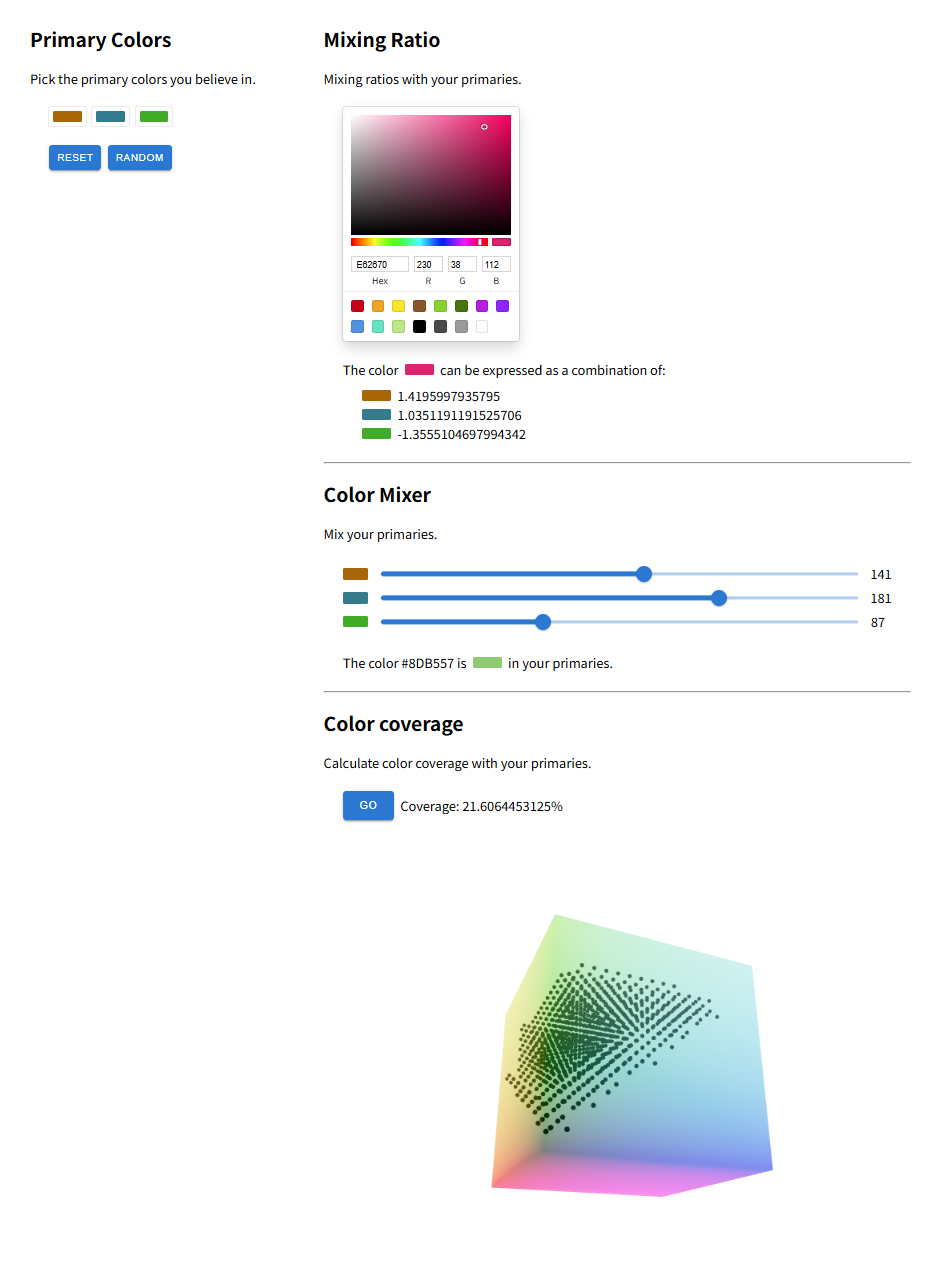
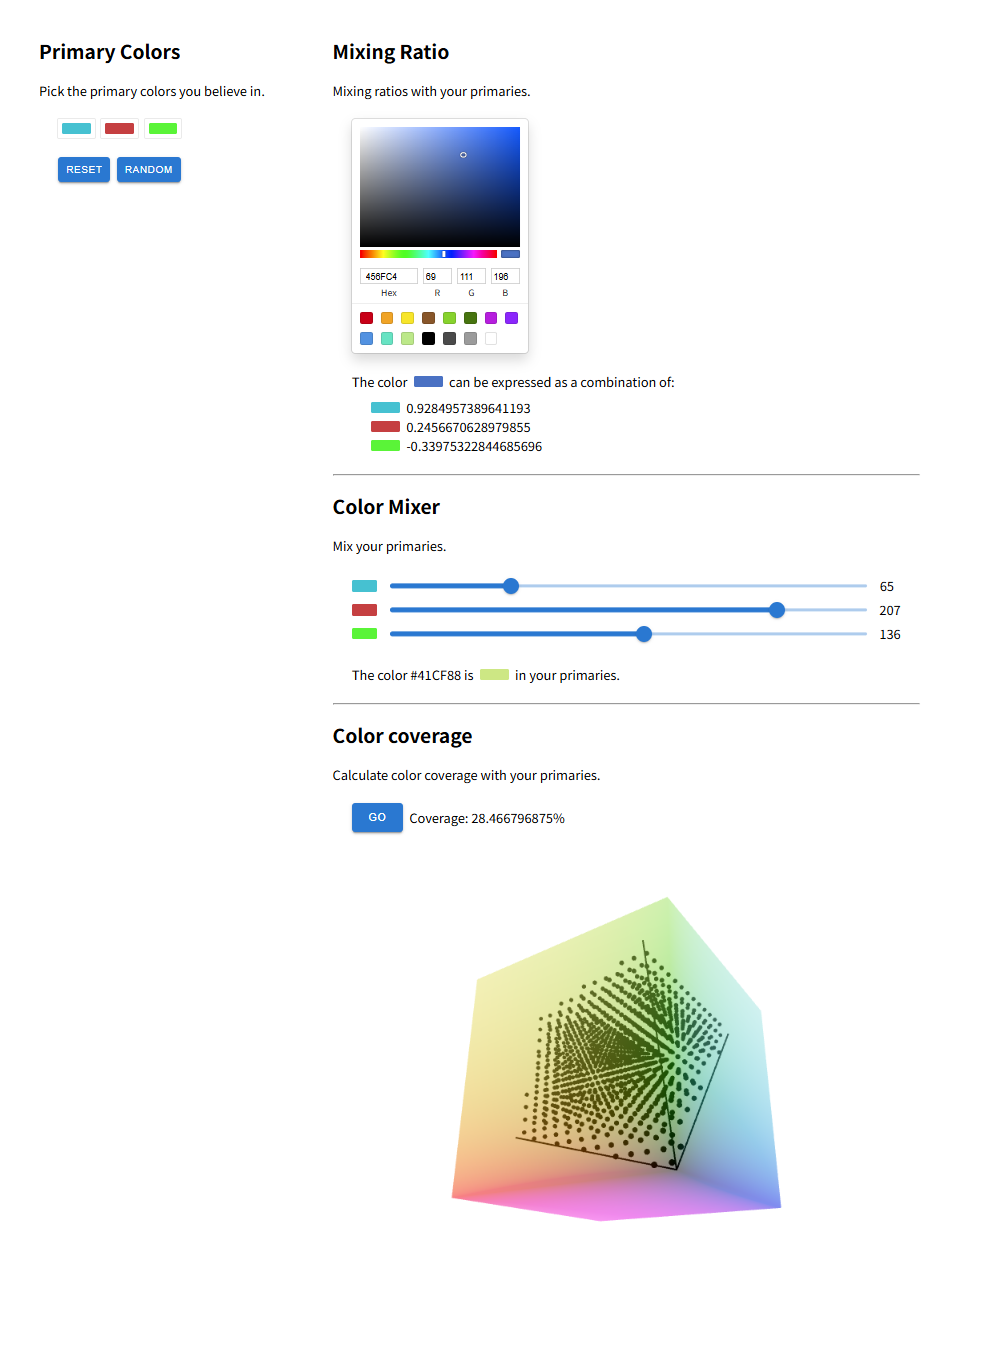
added basis lines

Changed region(s): [[0.3376, 0.0306, 0.9513, 0.6434], [0.4296, 0.6434, 0.8286, 0.9497], [0.0307, 0.0306, 0.2762, 0.1532]]

diff --git a/src/components/ColorCoverage.tsx b/src/components/ColorCoverage.tsx
@@ -1,14 +1,68 @@
 import { Box, Button } from "@mui/material";
-import { OrbitControls } from "@react-three/drei";
+import { Line, OrbitControls } from "@react-three/drei";
 import { Canvas } from "@react-three/fiber";
 import { useCallback, useState } from "react";
 import { type RGBColor } from "react-color";
 import * as THREE from "three";
-import { estimateCoverageGridAsync } from "../libs";
-import { BLACK, type PrimaryColors } from "../types";
+import { colorToVec3, estimateCoverageGridAsync } from "../libs";
+import { BLACK, type PrimaryColors, type Vec3 } from "../types";
 import { FlexRow } from "./FlexRow";
 
-function GradientCube() {
+// -1~1 に変換してThree.js座標に
+const normalize = (v: Vec3): [number, number, number] => [
+  (v.x / 255) * 2 - 1,
+  (v.y / 255) * 2 - 1,
+  (v.z / 255) * 2 - 1,
+];
+
+// ベクトルと色立方体の交点を計算
+const getCubeIntersection = (v: Vec3): Vec3 => {
+  const tX = v.x > 0 ? 255 / v.x : Infinity;
+  const tY = v.y > 0 ? 255 / v.y : Infinity;
+  const tZ = v.z > 0 ? 255 / v.z : Infinity;
+
+  const tMax = Math.min(tX, tY, tZ);
+
+  return {
+    x: v.x * tMax,
+    y: v.y * tMax,
+    z: v.z * tMax,
+  };
+};
+
+type PointProps = {
+  x: number; // 0~255
+  y: number;
+  z: number;
+  color?: RGBColor;
+};
+
+const RGBPoint = ({ x, y, z, color = BLACK }: PointProps) => {
+  const pos = normalize({ x, y, z });
+
+  return (
+    <mesh position={[pos[0], pos[1], pos[2]]}>
+      <sphereGeometry args={[0.02, 16, 16]} />
+      <meshBasicMaterial color={[color.r, color.g, color.b]} />
+    </mesh>
+  );
+};
+
+const ColorAxis = ({ color }: { color: RGBColor }) => {
+  const end = getCubeIntersection(colorToVec3(color));
+
+  return (
+    <>
+      <Line
+        points={[[-1, -1, -1], normalize(end)]}
+        lineWidth={2}
+        color={"black"}
+      />
+    </>
+  );
+};
+
+const GradientCube = () => {
   const geometry = new THREE.BoxGeometry(2, 2, 2);
   const colors: number[] = [];
 
@@ -32,33 +86,16 @@ function GradientCube() {
       <meshBasicMaterial vertexColors={true} transparent={true} opacity={0.5} />
     </mesh>
   );
-}
-
-type PointProps = {
-  x: number; // 0~255
-  y: number;
-  z: number;
-  color?: RGBColor;
 };
-
-function RGBPoint({ x, y, z, color = BLACK }: PointProps) {
-  // -1〜1 に正規化
-  const nx = (x / 255) * 2 - 1;
-  const ny = (y / 255) * 2 - 1;
-  const nz = (z / 255) * 2 - 1;
-
-  return (
-    <mesh position={[nx, ny, nz]}>
-      <sphereGeometry args={[0.02, 16, 16]} />
-      <meshBasicMaterial color={[color.r, color.g, color.b]} />
-    </mesh>
-  );
-}
 
 type CoverageCubeProps = {
+  colorAxises: PrimaryColors;
   coveredColors: RGBColor[];
 };
-const CoverageCube = ({ coveredColors }: CoverageCubeProps) => {
+const CoverageCube = ({
+  colorAxises: primaryColors,
+  coveredColors,
+}: CoverageCubeProps) => {
   return (
     <Canvas style={{ height: 600 }} camera={{ position: [3, 3, 3], fov: 50 }}>
       <ambientLight />
@@ -66,6 +103,9 @@ const CoverageCube = ({ coveredColors }: CoverageCubeProps) => {
       {coveredColors.map(({ r, g, b }) => (
         <RGBPoint x={r} y={g} z={b} />
       ))}
+      <ColorAxis color={primaryColors.color1} />
+      <ColorAxis color={primaryColors.color2} />
+      <ColorAxis color={primaryColors.color3} />
       <OrbitControls />
     </Canvas>
   );
@@ -79,11 +119,13 @@ export const ColorCoverage = ({ primaryColors }: ColorCoverageProps) => {
   const [calculating, setCalculating] = useState(false);
   const [coverage, setCoverage] = useState(100);
   const [coveredColors, setCoveredColors] = useState<RGBColor[]>([]);
+  const [colorAxises, setColorAxises] = useState<PrimaryColors>(primaryColors);
   const handleOnClickCalculate = useCallback(async () => {
     setCalculating(true);
     const [result, colors] = await estimateCoverageGridAsync(primaryColors);
     setCoverage(result);
     setCoveredColors(colors);
+    setColorAxises(primaryColors);
     setCalculating(false);
   }, [primaryColors]);
 
@@ -97,7 +139,7 @@ export const ColorCoverage = ({ primaryColors }: ColorCoverageProps) => {
           Coverage: {calculating ? "calculating" : coverage}%
         </FlexRow>
       </Box>
-      <CoverageCube coveredColors={coveredColors} />
+      <CoverageCube colorAxises={colorAxises} coveredColors={coveredColors} />
     </>
   );
 };

diff --git a/src/libs.ts b/src/libs.ts
@@ -1,6 +1,14 @@
 import { det, inv, matrix, multiply } from "mathjs";
-import type { PrimaryColors } from "./types";
+import type { PrimaryColors, Vec3 } from "./types";
 import type { RGBColor } from "react-color";
+
+export function colorToVec3(color: RGBColor): Vec3 {
+  return {
+    x: color.r,
+    y: color.g,
+    z: color.b,
+  };
+}
 
 /**
  * 3つのRGBColorが線形独立かどうか判定する

diff --git a/src/types.ts b/src/types.ts
@@ -10,3 +10,5 @@ export const BLACK: RGBColor = { r: 0, g: 0, b: 0 } as const;
 export const RED: RGBColor = { r: 255, g: 0, b: 0 } as const;
 export const GREEN: RGBColor = { r: 0, g: 255, b: 0 } as const;
 export const BLUE: RGBColor = { r: 0, g: 0, b: 255 } as const;
+
+export type Vec3 = { x: number; y: number; z: number };
